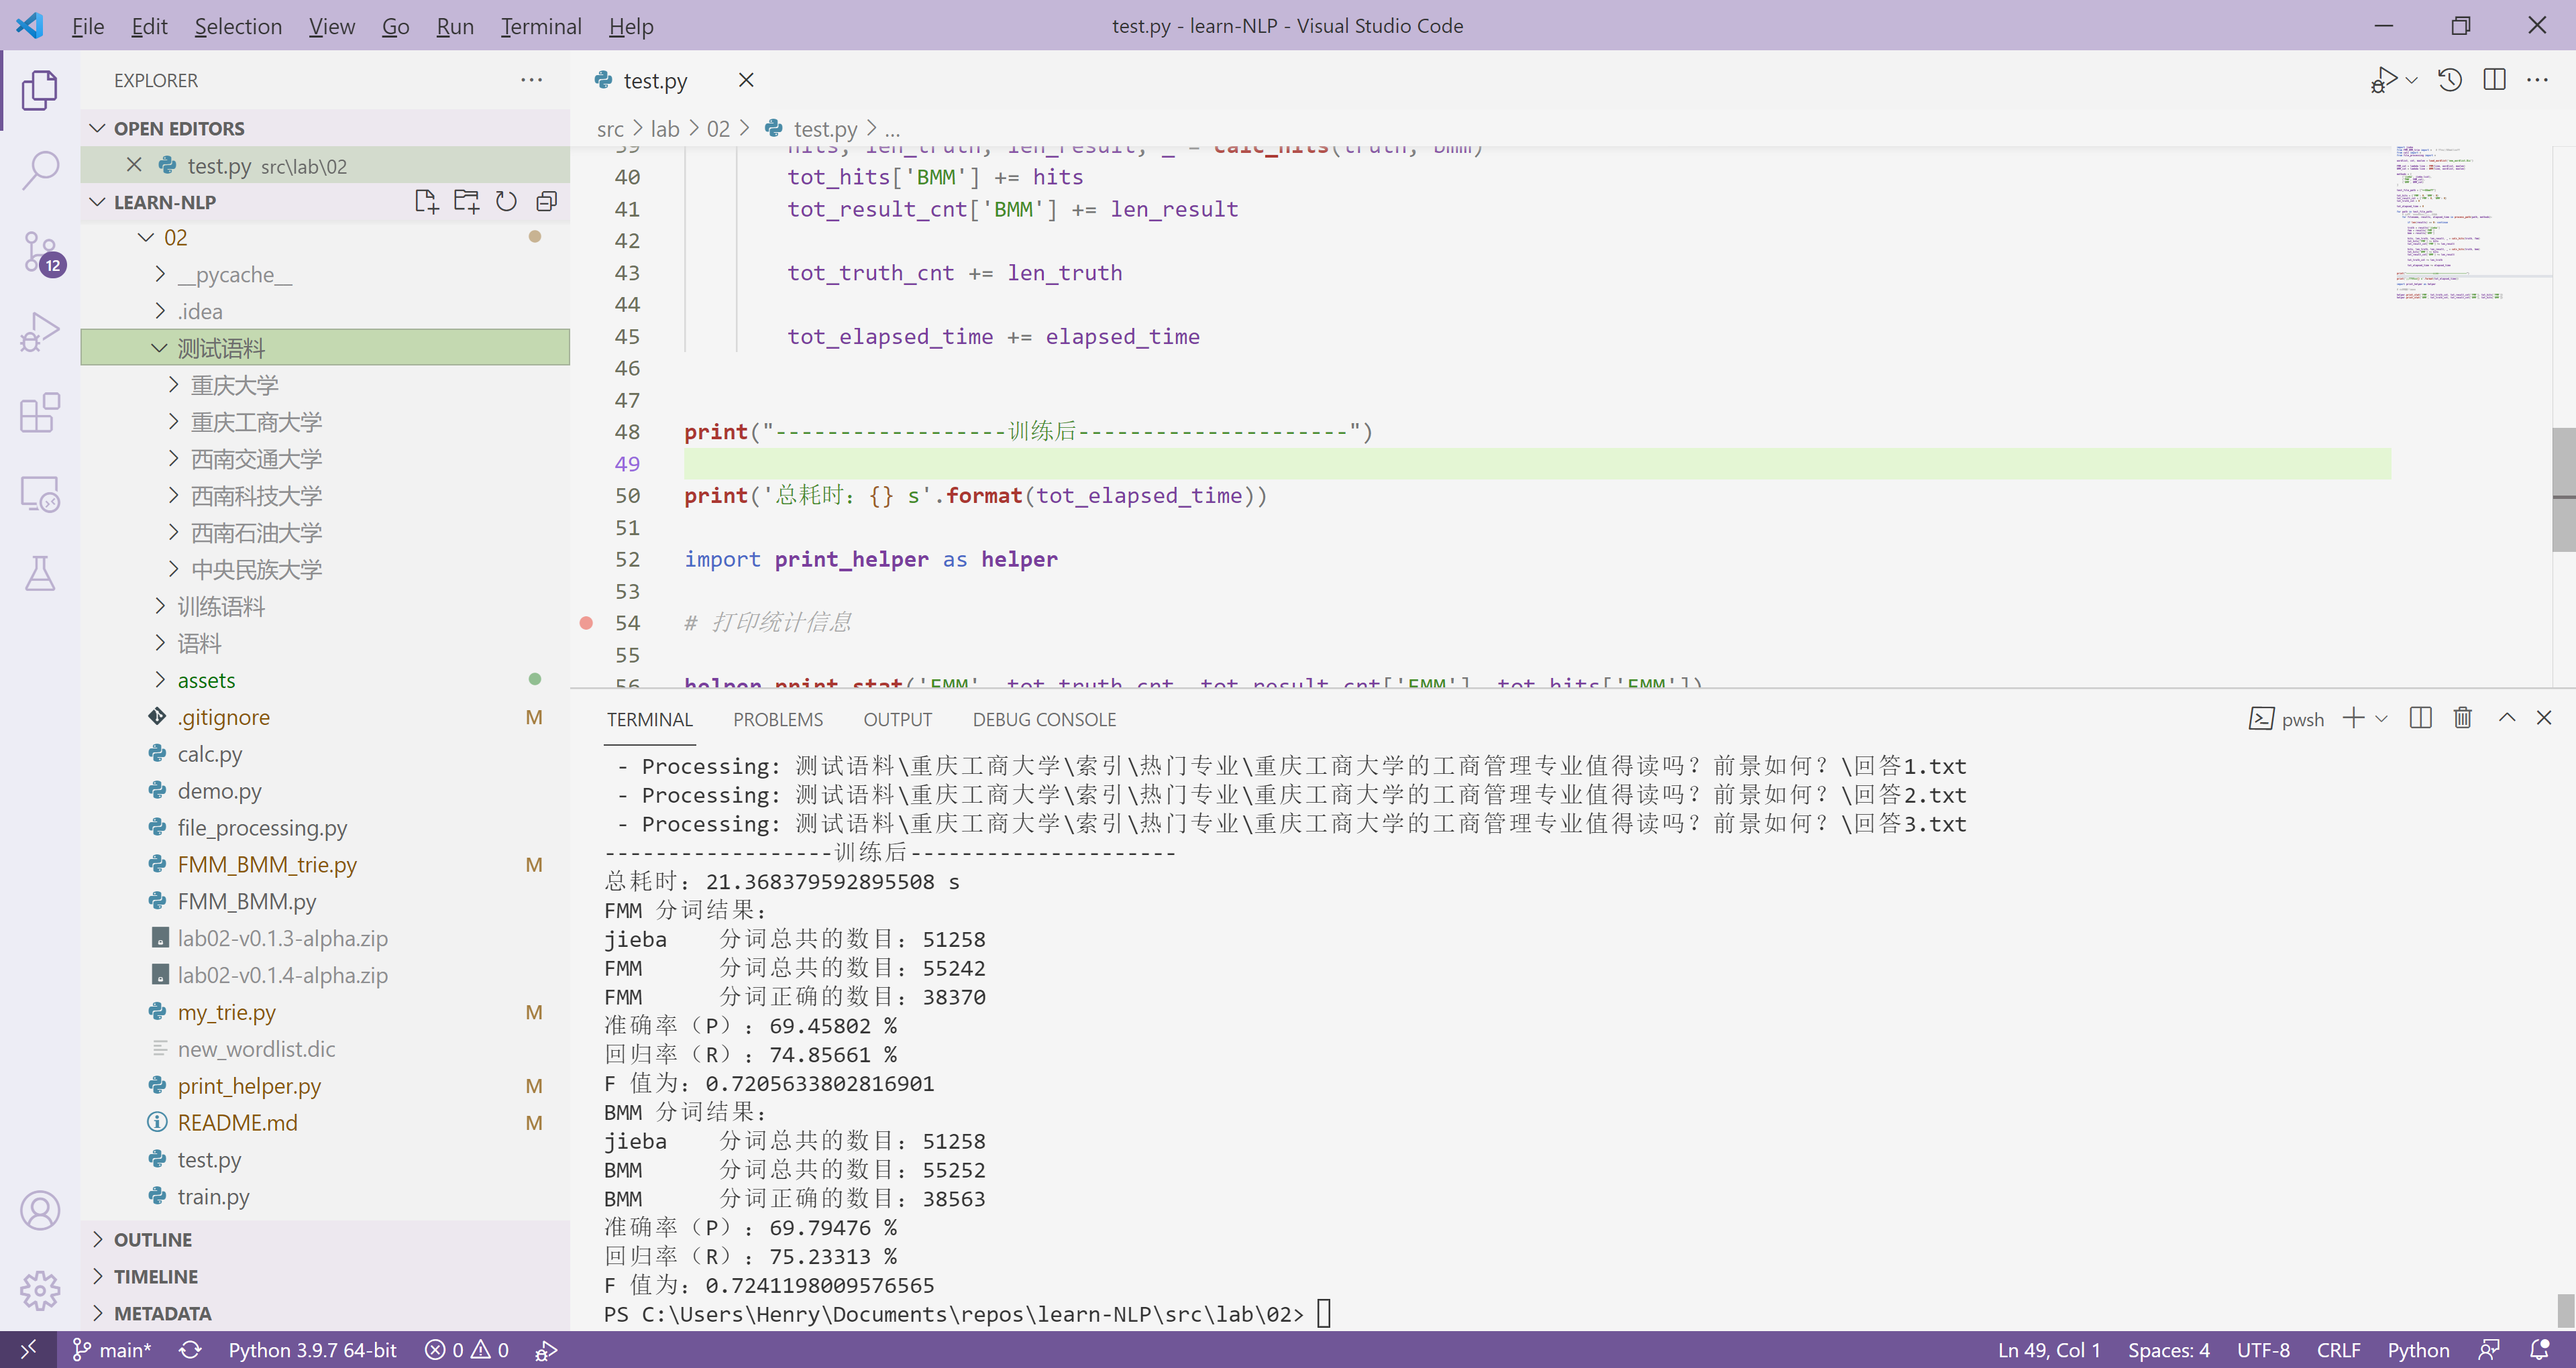
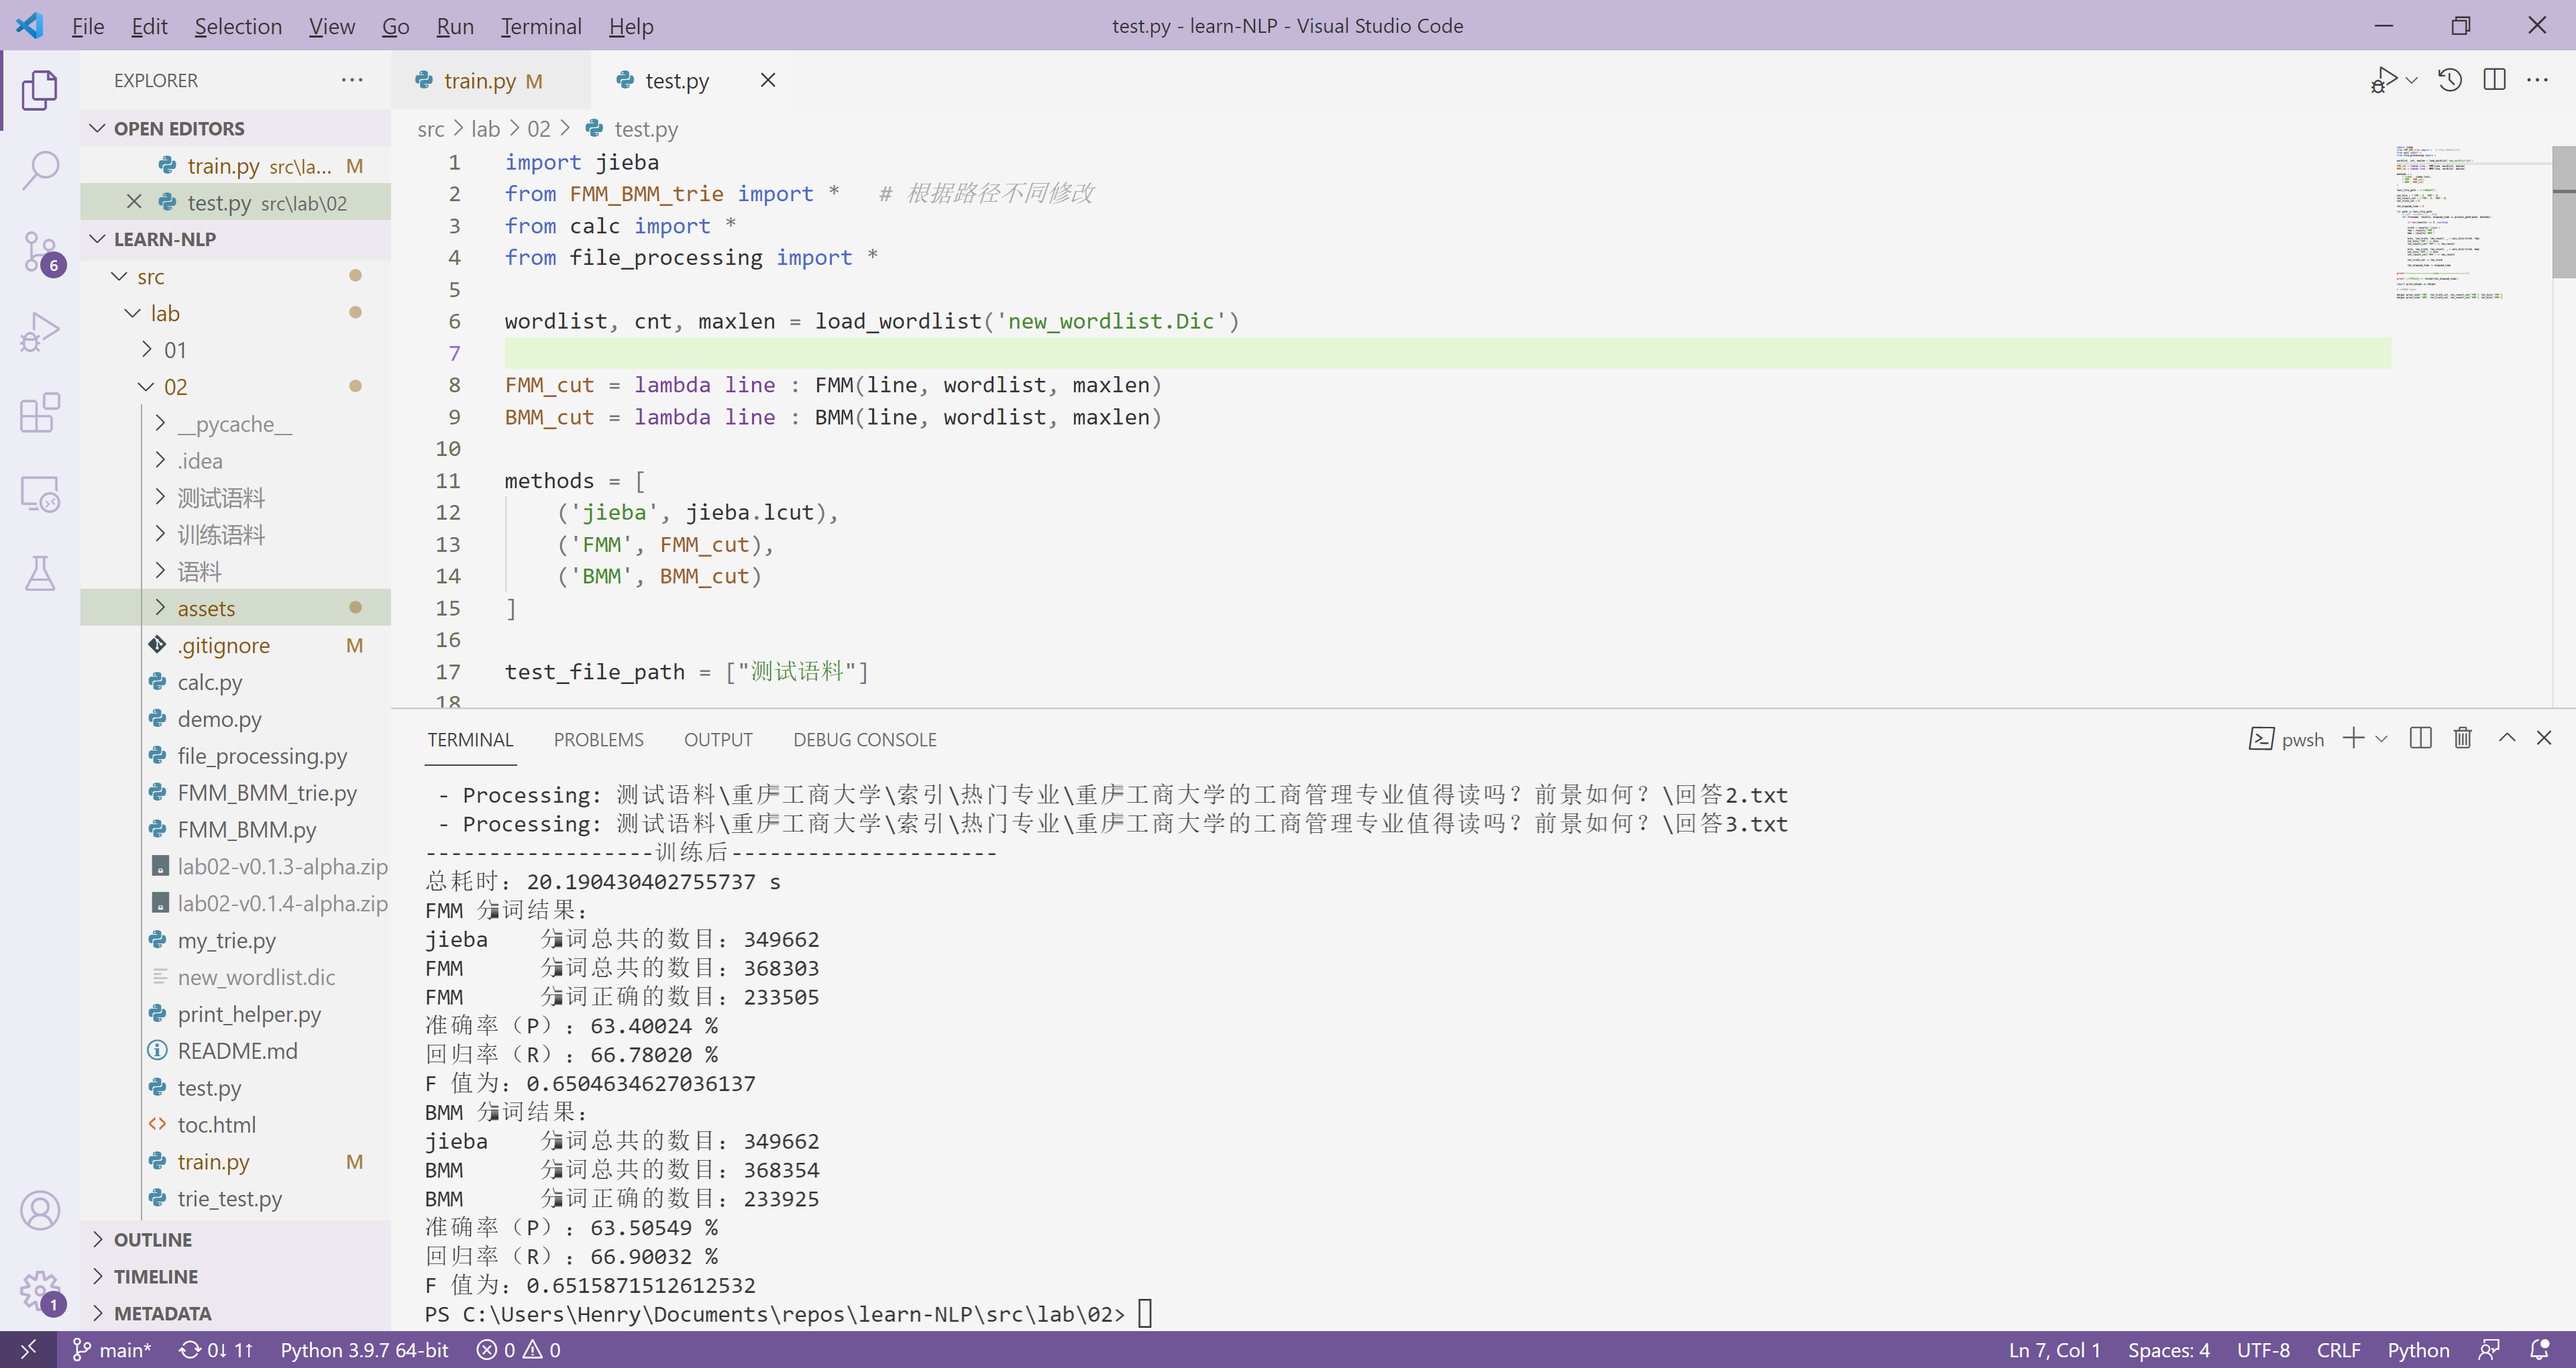
fix: modify report after a fatal bug fix
Also disabled self-implemented trie module.

diff --git a/src/lab/02/test.py b/src/lab/02/test.py
@@ -1,5 +1,5 @@
 import jieba
-from FMM_BMM_trie import *   # 根据路径不同修改
+from FMM_BMM import *   # 根据路径不同修改
 from calc import *
 from file_processing import * 
 

diff --git a/src/lab/02/train.py b/src/lab/02/train.py
@@ -1,5 +1,5 @@
 import jieba
-from FMM_BMM_trie import *   # 根据路径不同修改
+from FMM_BMM import *   # 根据路径不同修改
 from calc import *
 from file_processing import * 
 

diff --git a/src/lab/02/README.md b/src/lab/02/README.md
@@ -221,6 +221,14 @@ R = \\frac{\\text{准确切分的词语数}}{\\text{应该切分的词语数}}
 
 使用 trie 进行词典检索的 FMM、BMM：[FMM_BMM_trie.py](./FMM_BMM_trie.py)。
 
+实际效率情况对比：
+
+- 使用自己编写的 Trie 模块：
+    - [trie-before-train.png](assets/trie-before-train.png)
+    - [trie-after-train.png](assets/trie-after-train.png)
+- 使用 Python 内建的 `set` 类型：
+    - [python-set-before-train.png](assets/python-set-before-train.png)
+    - [python-set-after-train.png](assets/python-set-after-train.png)
 
 ## 五、实验结果
 
@@ -244,64 +252,60 @@ R = \\frac{\\text{准确切分的词语数}}{\\text{应该切分的词语数}}
 <figcaption>图 2：用于测试的材料（1747 个文件，1.61 MB）</figcaption>
 </figure>
 
-首先使用默认字典（53143 词），对训练材料进行分词，并对结果评估，最后产生新的字典。（使用自己编写的 Trie 作为存储词典的结构）
+首先使用默认字典（53143 词），对训练材料进行分词，并对结果评估，最后产生新的字典。（使用 Python 内建的 set 作为存储词典的结构）
 
 代码：[train.py](./train.py)
 
 <figure>
 
-![使用默认词典的情况下，FMM、BMM 法分词的结果](./assets/trie-before-train.png)
+![使用默认词典的情况下，FMM、BMM 法分词的结果](./assets/python-set-before-train.png)
 
 <figcaption>图 3：使用默认词典的情况下，FMM、BMM 法分词的结果</figcaption>
 </figure>
 
 ```
-总耗时：8.89 s
-
 FMM 分词结果：
-jieba    分词总共的数目：70222
-FMM      分词总共的数目：82647
-FMM      分词正确的数目：47265
-准确率（P）：57.18901 %
-回归率（R）：67.30797 %
-F 值为：0.6183725935277917
-
+jieba    分词总共的数目：572064
+FMM      分词总共的数目：678648
+FMM      分词正确的数目：270026
+准确率（P）：39.78882 %
+回归率（R）：47.20206 %
+F 值为：0.43179564919821667
 BMM 分词结果：
-jieba    分词总共的数目：70222
-BMM      分词总共的数目：82643
-BMM      分词正确的数目：47414
-准确率（P）：57.37207 %
-回归率（R）：67.52015 %
-F 值为：0.6203382069145978
+jieba    分词总共的数目：572064
+BMM      分词总共的数目：678620
+BMM      分词正确的数目：270798
+准确率（P）：39.90422 %
+回归率（R）：47.33701 %
+F 值为：0.43303984059922407
 ```
 
-得到新的词典拥有 57692 条词。接着，使用学习“新词”后的词典，对其余的资料进行分词，并评估分词结果。（使用自己编写的 Trie 作为存储词典的结构）
+得到新的词典拥有 74550 条词。接着，使用学习“新词”后的词典，对其余的资料进行分词，并评估分词结果。
 
 代码：[test.py](./test.py)
 
 <figure>
 
-![使用学习“新词”后的词典，FMM、BMM 法分词的结果](./assets/trie-after-train.png)
+![使用学习“新词”后的词典，FMM、BMM 法分词的结果](./assets/python-set-after-train.png)
 
 <figcaption>图 4：使用学习“新词”后的词典，FMM、BMM 法分词的结果</figcaption>
 </figure>
 
 ```
-总耗时：21.36 s
 FMM 分词结果：
-jieba    分词总共的数目：51258
-FMM      分词总共的数目：55242
-FMM      分词正确的数目：38370
-准确率（P）：69.45802 %
-回归率（R）：74.85661 %
-F 值为：0.7205633802816901
+jieba    分词总共的数目：349662
+FMM      分词总共的数目：368303
+FMM      分词正确的数目：233505
+准确率（P）：63.40024 %
+回归率（R）：66.78020 %
+F 值为：0.6504634627036137
 BMM 分词结果：
-jieba    分词总共的数目：51258
-BMM      分词总共的数目：55252
-BMM      分词正确的数目：38563
-准确率（P）：69.79476 %
-回归率（R）：75.23313 %
-F 值为：0.7241198009576565
+jieba    分词总共的数目：349662
+BMM      分词总共的数目：368354
+BMM      分词正确的数目：233925
+准确率（P）：63.50549 %
+回归率（R）：66.90032 %
+F 值为：0.6515871512612532
 ```
 
 可以看到，虽然词典扩增规模不明显，但耗时显著增加。
